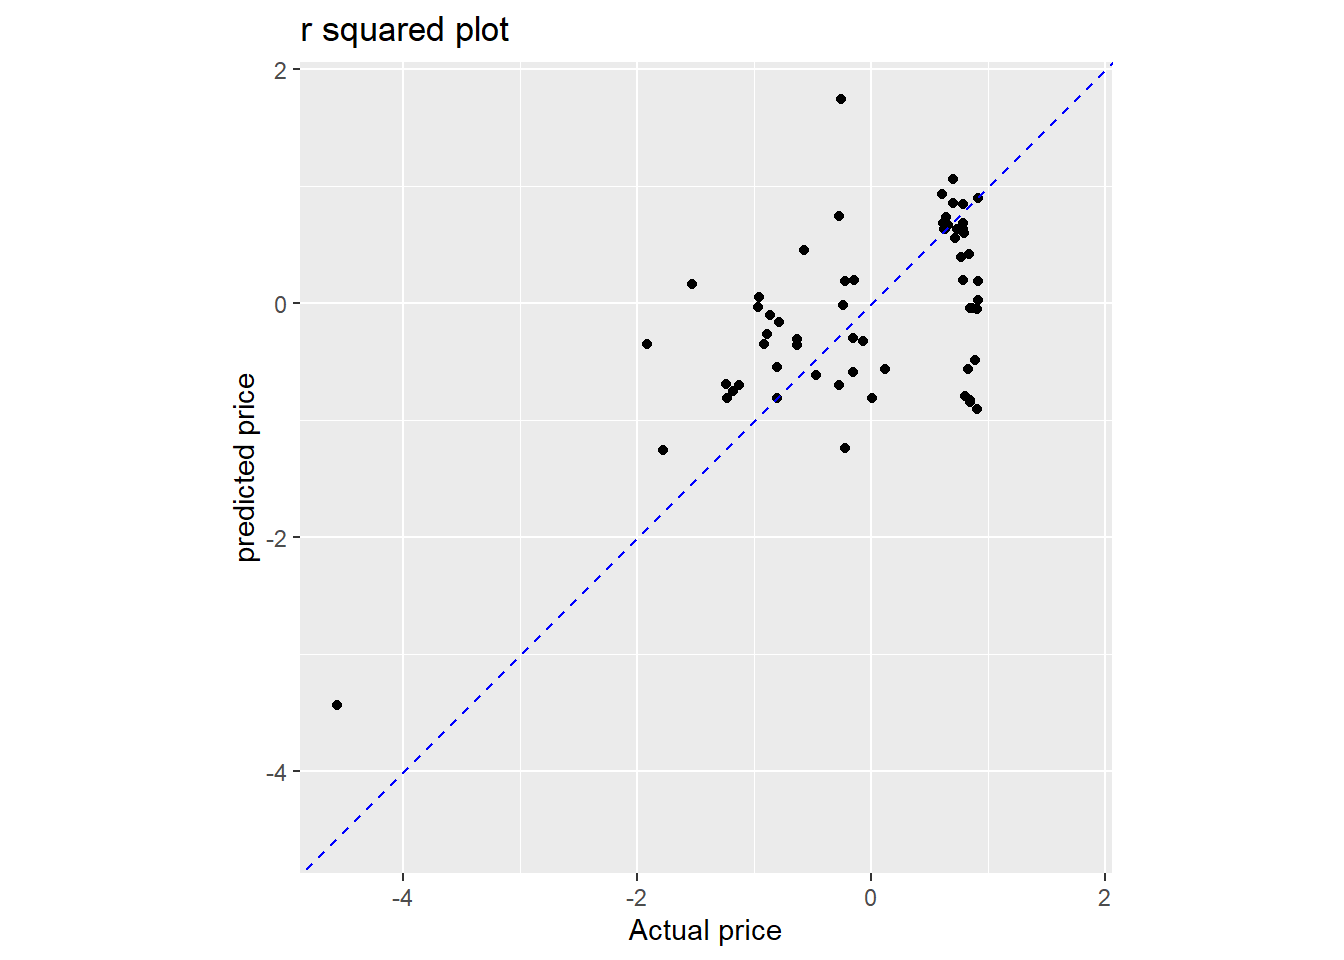
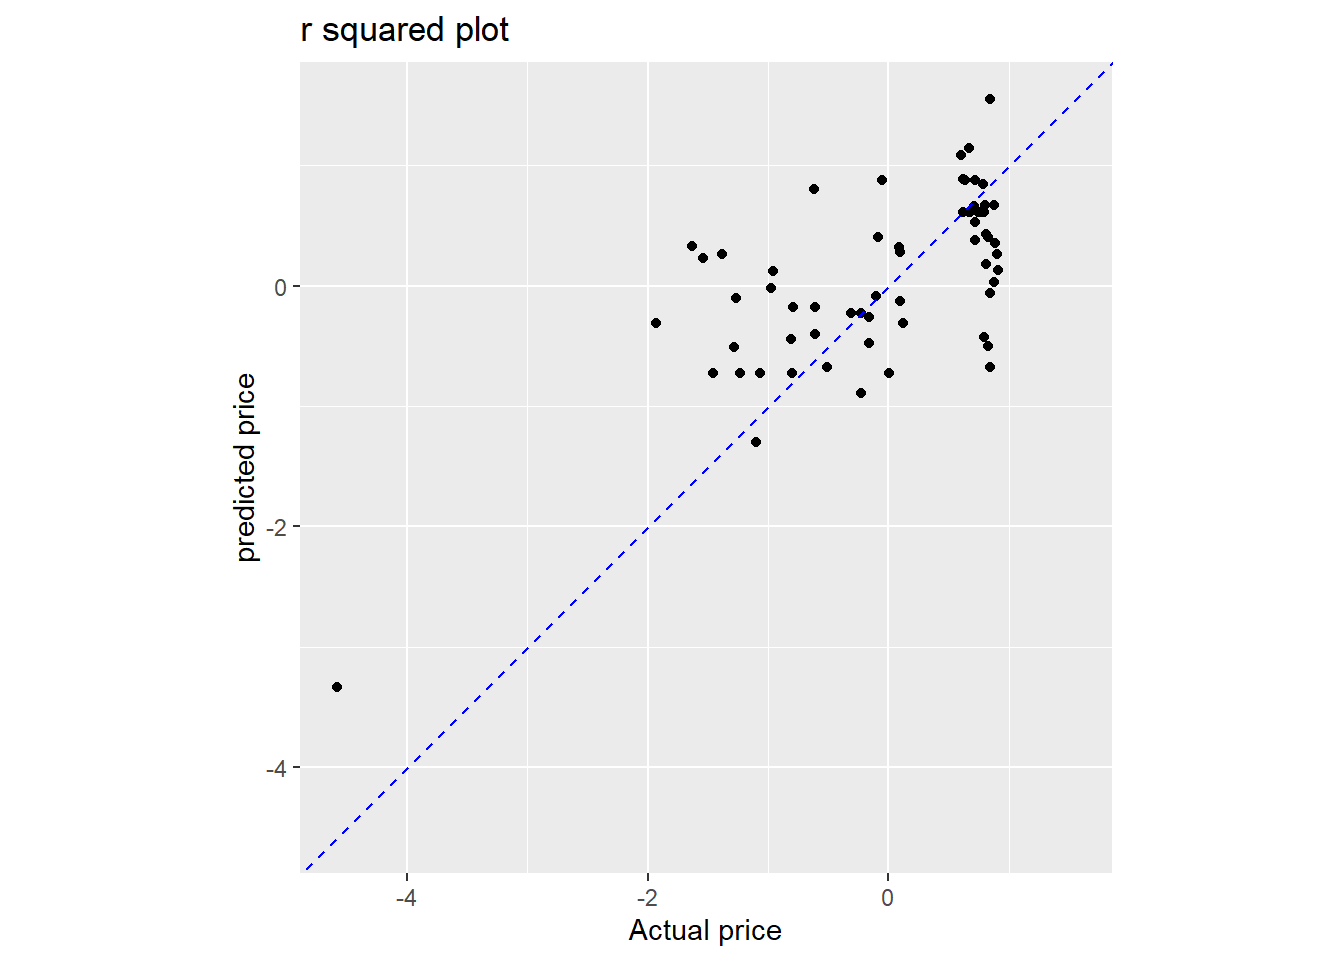
final model edited

diff --git a/content/post/2021-10-31-diamonds/index.html b/content/post/2021-10-31-diamonds/index.html
@@ -1136,7 +1136,7 @@ summary(lm_selectedmodel)</code></pre>
 ## Multiple R-squared:  0.5323, Adjusted R-squared:  0.5204 
 ## F-statistic: 44.95 on 6 and 237 DF,  p-value: &lt; 2.2e-16</code></pre>
 <p>The above is the best selected model to predict the price of the professor because the model is significant and it has good r squared of 0.532 and adjusted r squared of 0.52 and less standard error of 313.6 compared to other models.</p>
-<p>The best equation to predict price = 935.77+2317.67<em>Carat-459.69</em>ClarityVisible to naked eye +102.26<em>CutVery Good-464.58</em>WholesalerLow and Medium priced diamond wholesaler+119.31 <em>PolishVery Good - 261.97</em>Colouryellow</p>
+<p>The best equation to predict price = 935.77 + 2317.67 * Carat- 459.69 * ClarityVisible to naked eye + 102.26 * CutVery Good -464.58 * WholesalerLow and Medium priced diamond wholesaler + 119.31 * PolishVery Good - 261.97 * Colouryellow</p>
 </div>
 <div id="confidence-interval-of-price" class="section level1">
 <h1>Confidence interval of price</h1>
@@ -1144,7 +1144,7 @@ summary(lm_selectedmodel)</code></pre>
 <pre><code>##    upper     mean    lower 
 ## 2779.734 2722.627 2665.520</code></pre>
 <p>The confidenct interval of the price is between $2665.520 and $2779.73</p>
-<p>price = 935.77+2317.67<em>Carat-459.69</em>ClarityVisible to naked eye +102.26<em>CutVery Good-464.58</em>WholesalerLow and Medium priced diamond wholesaler+119.31 <em>PolishVery Good - 261.97</em>Colouryellow</p>
+<p>price = 935.77 + 2317.67 * Carat-459.69 * ClarityVisible to naked eye + 102.26 * CutVery Good-464.58 * WholesalerLow and Medium priced diamond wholesaler + 119.31 * PolishVery Good - 261.97 * Colouryellow</p>
 </div>
 <div id="calculation-of-professor-diamonds" class="section level1">
 <h1>Calculation of professor Diamonds</h1>
@@ -1231,16 +1231,16 @@ diamond_training_prep</code></pre>
 <pre><code>## # A tibble: 180 x 9
 ##     Carat Price Colour_yellow Clarity_Visible.t~ Cut_Very.Good Certification_Ot~
 ##     &lt;dbl&gt; &lt;dbl&gt;         &lt;dbl&gt;              &lt;dbl&gt;         &lt;dbl&gt;             &lt;dbl&gt;
-##  1 0.401  -1.84             1                  0             0                 1
-##  2 0.0885 -1.75             0                  1             0                 0
-##  3 0.276  -1.67             1                  1             0                 1
-##  4 0.339  -1.63             1                  1             0                 1
-##  5 1.46   -1.62             0                  1             0                 0
-##  6 0.151  -1.52             0                  1             1                 0
-##  7 0.0260 -1.50             0                  1             0                 0
-##  8 0.0260 -1.49             1                  1             1                 0
-##  9 0.339  -1.45             0                  1             1                 0
-## 10 0.0260 -1.44             0                  1             0                 1
+##  1 0.445  -1.85             1                  0             0                 1
+##  2 0.0498 -1.79             1                  1             0                 0
+##  3 0.116  -1.77             0                  1             0                 0
+##  4 0.313  -1.68             1                  1             0                 1
+##  5 0.379  -1.64             1                  1             0                 1
+##  6 0.182  -1.53             0                  1             1                 0
+##  7 0.0498 -1.51             0                  1             0                 0
+##  8 0.0498 -1.50             1                  1             1                 0
+##  9 0.379  -1.46             0                  1             1                 0
+## 10 0.182  -1.39             1                  1             0                 1
 ## # ... with 170 more rows, and 3 more variables: Polish_Very.Good &lt;dbl&gt;,
 ## #   Symmetry_Very.Good &lt;dbl&gt;,
 ## #   Wholesaler_Low.and.Medium.priced.diamond.wholesaler &lt;dbl&gt;</code></pre>
@@ -1254,16 +1254,16 @@ diamond_test_prep</code></pre>
 <pre><code>## # A tibble: 64 x 9
 ##     Carat Price Colour_yellow Clarity_Visible.t~ Cut_Very.Good Certification_Ot~
 ##     &lt;dbl&gt; &lt;dbl&gt;         &lt;dbl&gt;              &lt;dbl&gt;         &lt;dbl&gt;             &lt;dbl&gt;
-##  1 -0.474 0.611             0                  0             1                 0
-##  2 -1.16  0.620             0                  0             1                 0
-##  3 -1.22  0.629             0                  0             1                 0
-##  4 -1.22  0.638             0                  0             1                 0
-##  5 -1.10  0.644             0                  0             1                 0
-##  6 -0.536 0.662             1                  0             1                 0
-##  7 -0.724 0.704             0                  0             1                 0
-##  8 -0.599 0.706             0                  0             0                 0
-##  9 -0.911 0.724             0                  0             1                 0
-## 10 -1.22  0.741             0                  0             1                 0
+##  1 -0.477 0.606             0                  0             0                 0
+##  2 -0.807 0.621             0                  0             1                 0
+##  3 -1.27  0.623             0                  0             1                 0
+##  4 -0.939 0.637             0                  0             1                 0
+##  5 -0.609 0.668             0                  0             1                 0
+##  6 -1.27  0.674             0                  0             1                 0
+##  7 -1.27  0.683             0                  0             1                 0
+##  8 -1.20  0.714             0                  0             1                 0
+##  9 -0.939 0.719             0                  0             1                 0
+## 10 -1.20  0.719             0                  0             1                 0
 ## # ... with 54 more rows, and 3 more variables: Polish_Very.Good &lt;dbl&gt;,
 ## #   Symmetry_Very.Good &lt;dbl&gt;,
 ## #   Wholesaler_Low.and.Medium.priced.diamond.wholesaler &lt;dbl&gt;</code></pre>
@@ -1275,30 +1275,30 @@ diamond_test_prep</code></pre>
 lm_fit</code></pre>
 <pre><code>## parsnip model object
 ## 
-## Fit time:  0ms 
+## Fit time:  21ms 
 ## 
 ## Call:
 ## stats::lm(formula = Price ~ ., data = data)
 ## 
 ## Coefficients:
 ##                                         (Intercept)  
-##                                              1.1982  
+##                                             1.24262  
 ##                                               Carat  
-##                                              0.8626  
+##                                             0.80581  
 ##                                       Colour_yellow  
-##                                             -0.5525  
+##                                            -0.57396  
 ##                        Clarity_Visible.to.naked.eye  
-##                                             -1.0091  
+##                                            -0.98658  
 ##                                       Cut_Very.Good  
-##                                              0.1444  
+##                                             0.16093  
 ##                  Certification_Other.Certifications  
-##                                              0.2386  
+##                                             0.16368  
 ##                                    Polish_Very.Good  
-##                                              0.1670  
+##                                             0.09326  
 ##                                  Symmetry_Very.Good  
-##                                              0.1765  
+##                                             0.13490  
 ## Wholesaler_Low.and.Medium.priced.diamond.wholesaler  
-##                                             -1.2584</code></pre>
+##                                            -1.18694</code></pre>
 </div>
 <div id="obtaining-the-estimated-parameters" class="section level1">
 <h1>Obtaining the estimated parameters</h1>
@@ -1306,15 +1306,15 @@ lm_fit</code></pre>
 <pre><code>## # A tibble: 9 x 5
 ##   term                                     estimate std.error statistic  p.value
 ##   &lt;chr&gt;                                       &lt;dbl&gt;     &lt;dbl&gt;     &lt;dbl&gt;    &lt;dbl&gt;
-## 1 (Intercept)                                 1.20     0.151       7.92 2.97e-13
-## 2 Carat                                       0.863    0.0675     12.8  1.06e-26
-## 3 Colour_yellow                              -0.553    0.129      -4.29 2.97e- 5
-## 4 Clarity_Visible.to.naked.eye               -1.01     0.148      -6.83 1.43e-10
-## 5 Cut_Very.Good                               0.144    0.111       1.30 1.96e- 1
-## 6 Certification_Other.Certifications          0.239    0.130       1.83 6.86e- 2
-## 7 Polish_Very.Good                            0.167    0.118       1.42 1.57e- 1
-## 8 Symmetry_Very.Good                          0.176    0.121       1.46 1.45e- 1
-## 9 Wholesaler_Low.and.Medium.priced.diamon~   -1.26     0.195      -6.45 1.09e- 9</code></pre>
+## 1 (Intercept)                                1.24      0.158      7.86  4.18e-13
+## 2 Carat                                      0.806     0.0693    11.6   2.03e-23
+## 3 Colour_yellow                             -0.574     0.133     -4.31  2.72e- 5
+## 4 Clarity_Visible.to.naked.eye              -0.987     0.155     -6.36  1.74e- 9
+## 5 Cut_Very.Good                              0.161     0.115      1.40  1.63e- 1
+## 6 Certification_Other.Certifications         0.164     0.138      1.19  2.37e- 1
+## 7 Polish_Very.Good                           0.0933    0.121      0.768 4.44e- 1
+## 8 Symmetry_Very.Good                         0.135     0.122      1.10  2.72e- 1
+## 9 Wholesaler_Low.and.Medium.priced.diamon~  -1.19      0.204     -5.81  3.04e- 8</code></pre>
 </div>
 <div id="making-predictions" class="section level1">
 <h1>Making predictions</h1>
@@ -1324,16 +1324,16 @@ diamond_predictions</code></pre>
 <pre><code>## # A tibble: 64 x 1
 ##    .pred
 ##    &lt;dbl&gt;
-##  1 0.934
-##  2 0.684
-##  3 0.630
-##  4 0.630
-##  5 0.738
-##  6 0.671
-##  7 1.06 
-##  8 0.858
-##  9 0.556
-## 10 0.630
+##  1 1.09 
+##  2 0.888
+##  3 0.610
+##  4 0.875
+##  5 1.14 
+##  6 0.610
+##  7 0.610
+##  8 0.663
+##  9 0.875
+## 10 0.528
 ## # ... with 54 more rows</code></pre>
 </div>
 <div id="adding-predictions-to-test-data" class="section level1">
@@ -1344,16 +1344,16 @@ diamond_test_prep_results</code></pre>
 <pre><code>## # A tibble: 64 x 10
 ##     Carat Price Colour_yellow Clarity_Visible.t~ Cut_Very.Good Certification_Ot~
 ##     &lt;dbl&gt; &lt;dbl&gt;         &lt;dbl&gt;              &lt;dbl&gt;         &lt;dbl&gt;             &lt;dbl&gt;
-##  1 -0.474 0.611             0                  0             1                 0
-##  2 -1.16  0.620             0                  0             1                 0
-##  3 -1.22  0.629             0                  0             1                 0
-##  4 -1.22  0.638             0                  0             1                 0
-##  5 -1.10  0.644             0                  0             1                 0
-##  6 -0.536 0.662             1                  0             1                 0
-##  7 -0.724 0.704             0                  0             1                 0
-##  8 -0.599 0.706             0                  0             0                 0
-##  9 -0.911 0.724             0                  0             1                 0
-## 10 -1.22  0.741             0                  0             1                 0
+##  1 -0.477 0.606             0                  0             0                 0
+##  2 -0.807 0.621             0                  0             1                 0
+##  3 -1.27  0.623             0                  0             1                 0
+##  4 -0.939 0.637             0                  0             1                 0
+##  5 -0.609 0.668             0                  0             1                 0
+##  6 -1.27  0.674             0                  0             1                 0
+##  7 -1.27  0.683             0                  0             1                 0
+##  8 -1.20  0.714             0                  0             1                 0
+##  9 -0.939 0.719             0                  0             1                 0
+## 10 -1.20  0.719             0                  0             1                 0
 ## # ... with 54 more rows, and 4 more variables: Polish_Very.Good &lt;dbl&gt;,
 ## #   Symmetry_Very.Good &lt;dbl&gt;,
 ## #   Wholesaler_Low.and.Medium.priced.diamond.wholesaler &lt;dbl&gt;, .pred &lt;dbl&gt;</code></pre>
@@ -1368,7 +1368,7 @@ diamond_test_prep_results</code></pre>
 <pre><code>## # A tibble: 1 x 3
 ##   .metric .estimator .estimate
 ##   &lt;chr&gt;   &lt;chr&gt;          &lt;dbl&gt;
-## 1 rmse    standard       0.809</code></pre>
+## 1 rmse    standard       0.743</code></pre>
 </div>
 <div id="r-squared-metric" class="section level1">
 <h1>r squared metric</h1>
@@ -1377,7 +1377,7 @@ diamond_test_prep_results</code></pre>
 <pre><code>## # A tibble: 1 x 3
 ##   .metric .estimator .estimate
 ##   &lt;chr&gt;   &lt;chr&gt;          &lt;dbl&gt;
-## 1 rsq     standard       0.371</code></pre>
+## 1 rsq     standard       0.470</code></pre>
 </div>
 <div id="r-squared-plots" class="section level1">
 <h1>r squared plots</h1>
@@ -1394,8 +1394,8 @@ diamond_test_prep_results</code></pre>
 <pre><code>## # A tibble: 2 x 4
 ##   .metric .estimator .estimate .config             
 ##   &lt;chr&gt;   &lt;chr&gt;          &lt;dbl&gt; &lt;chr&gt;               
-## 1 rmse    standard     367.    Preprocessor1_Model1
-## 2 rsq     standard       0.371 Preprocessor1_Model1</code></pre>
+## 1 rmse    standard     336.    Preprocessor1_Model1
+## 2 rsq     standard       0.470 Preprocessor1_Model1</code></pre>
 </div>
 <div id="collecting-predictions" class="section level1">
 <h1>COllecting predictions</h1>
@@ -1404,16 +1404,16 @@ diamond_test_prep_results</code></pre>
 <pre><code>## # A tibble: 64 x 5
 ##    id               .pred  .row Price .config             
 ##    &lt;chr&gt;            &lt;dbl&gt; &lt;int&gt; &lt;dbl&gt; &lt;chr&gt;               
-##  1 train/test split 3146.     2  3000 Preprocessor1_Model1
-##  2 train/test split 3033.     4  3004 Preprocessor1_Model1
-##  3 train/test split 3009.     7  3008 Preprocessor1_Model1
-##  4 train/test split 3009.    10  3012 Preprocessor1_Model1
-##  5 train/test split 3057.    14  3015 Preprocessor1_Model1
-##  6 train/test split 3027.    16  3023 Preprocessor1_Model1
-##  7 train/test split 3204.    29  3042 Preprocessor1_Model1
-##  8 train/test split 3112.    32  3043 Preprocessor1_Model1
-##  9 train/test split 2975.    37  3051 Preprocessor1_Model1
-## 10 train/test split 3009.    43  3059 Preprocessor1_Model1
+##  1 train/test split 3217.     1  3000 Preprocessor1_Model1
+##  2 train/test split 3128.     6  3007 Preprocessor1_Model1
+##  3 train/test split 3002.     7  3008 Preprocessor1_Model1
+##  4 train/test split 3122.    11  3014 Preprocessor1_Model1
+##  5 train/test split 3242.    18  3028 Preprocessor1_Model1
+##  6 train/test split 3002.    23  3031 Preprocessor1_Model1
+##  7 train/test split 3002.    24  3035 Preprocessor1_Model1
+##  8 train/test split 3026.    35  3049 Preprocessor1_Model1
+##  9 train/test split 3122.    36  3051 Preprocessor1_Model1
+## 10 train/test split 2965.    38  3051 Preprocessor1_Model1
 ## # ... with 54 more rows</code></pre>
 </div>
 <div id="creating-workflow" class="section level1">
@@ -1458,8 +1458,8 @@ diamond_wkfl_fit</code></pre>
 <pre><code>## # A tibble: 2 x 4
 ##   .metric .estimator .estimate .config             
 ##   &lt;chr&gt;   &lt;chr&gt;          &lt;dbl&gt; &lt;chr&gt;               
-## 1 rmse    standard       0.809 Preprocessor1_Model1
-## 2 rsq     standard       0.371 Preprocessor1_Model1</code></pre>
+## 1 rmse    standard       0.743 Preprocessor1_Model1
+## 2 rsq     standard       0.470 Preprocessor1_Model1</code></pre>
 </div>
 <div id="collecting-predictions-1" class="section level1">
 <h1>Collecting predictions</h1>
@@ -1469,16 +1469,16 @@ diamond_wkfl_preds</code></pre>
 <pre><code>## # A tibble: 64 x 5
 ##    id               .pred  .row Price .config             
 ##    &lt;chr&gt;            &lt;dbl&gt; &lt;int&gt; &lt;dbl&gt; &lt;chr&gt;               
-##  1 train/test split 0.934     2 0.611 Preprocessor1_Model1
-##  2 train/test split 0.684     4 0.620 Preprocessor1_Model1
-##  3 train/test split 0.630     7 0.629 Preprocessor1_Model1
-##  4 train/test split 0.630    10 0.638 Preprocessor1_Model1
-##  5 train/test split 0.738    14 0.644 Preprocessor1_Model1
-##  6 train/test split 0.671    16 0.662 Preprocessor1_Model1
-##  7 train/test split 1.06     29 0.704 Preprocessor1_Model1
-##  8 train/test split 0.858    32 0.706 Preprocessor1_Model1
-##  9 train/test split 0.556    37 0.724 Preprocessor1_Model1
-## 10 train/test split 0.630    43 0.741 Preprocessor1_Model1
+##  1 train/test split 1.09      1 0.606 Preprocessor1_Model1
+##  2 train/test split 0.888     6 0.621 Preprocessor1_Model1
+##  3 train/test split 0.610     7 0.623 Preprocessor1_Model1
+##  4 train/test split 0.875    11 0.637 Preprocessor1_Model1
+##  5 train/test split 1.14     18 0.668 Preprocessor1_Model1
+##  6 train/test split 0.610    23 0.674 Preprocessor1_Model1
+##  7 train/test split 0.610    24 0.683 Preprocessor1_Model1
+##  8 train/test split 0.663    35 0.714 Preprocessor1_Model1
+##  9 train/test split 0.875    36 0.719 Preprocessor1_Model1
+## 10 train/test split 0.528    38 0.719 Preprocessor1_Model1
 ## # ... with 54 more rows</code></pre>
 </div>
 <div id="exploring-custom-metrics" class="section level1">
@@ -1489,9 +1489,9 @@ diamond_wkfl_preds %&gt;%
 <pre><code>## # A tibble: 3 x 3
 ##   .metric .estimator .estimate
 ##   &lt;chr&gt;   &lt;chr&gt;          &lt;dbl&gt;
-## 1 rmse    standard       0.809
-## 2 mae     standard       0.621
-## 3 rsq     standard       0.371</code></pre>
+## 1 rmse    standard       0.743
+## 2 mae     standard       0.558
+## 3 rsq     standard       0.470</code></pre>
 </div>
 <div id="creating-cross-validation-folds" class="section level1">
 <h1>Creating cross validation folds</h1>
@@ -1523,9 +1523,9 @@ diamond_rs_fit %&gt;%
 <pre><code>## # A tibble: 3 x 6
 ##   .metric .estimator  mean     n std_err .config             
 ##   &lt;chr&gt;   &lt;chr&gt;      &lt;dbl&gt; &lt;int&gt;   &lt;dbl&gt; &lt;chr&gt;               
-## 1 mae     standard   0.506    10  0.0201 Preprocessor1_Model1
-## 2 rmse    standard   0.681    10  0.0319 Preprocessor1_Model1
-## 3 rsq     standard   0.480    10  0.0756 Preprocessor1_Model1</code></pre>
+## 1 mae     standard   0.534    10  0.0355 Preprocessor1_Model1
+## 2 rmse    standard   0.694    10  0.0532 Preprocessor1_Model1
+## 3 rsq     standard   0.487    10  0.0720 Preprocessor1_Model1</code></pre>
 <p>Models are trained with cross validation and its metrics are given.</p>
 </div>
 <div id="detailed-cross-validation-results" class="section level1">
@@ -1536,16 +1536,16 @@ diamond_rs_metrics</code></pre>
 <pre><code>## # A tibble: 30 x 5
 ##    id     .metric .estimator .estimate .config             
 ##    &lt;chr&gt;  &lt;chr&gt;   &lt;chr&gt;          &lt;dbl&gt; &lt;chr&gt;               
-##  1 Fold01 rmse    standard       0.780 Preprocessor1_Model1
-##  2 Fold01 mae     standard       0.530 Preprocessor1_Model1
-##  3 Fold01 rsq     standard       0.693 Preprocessor1_Model1
-##  4 Fold02 rmse    standard       0.626 Preprocessor1_Model1
-##  5 Fold02 mae     standard       0.492 Preprocessor1_Model1
-##  6 Fold02 rsq     standard       0.238 Preprocessor1_Model1
-##  7 Fold03 rmse    standard       0.596 Preprocessor1_Model1
-##  8 Fold03 mae     standard       0.398 Preprocessor1_Model1
-##  9 Fold03 rsq     standard       0.492 Preprocessor1_Model1
-## 10 Fold04 rmse    standard       0.594 Preprocessor1_Model1
+##  1 Fold01 rmse    standard       0.678 Preprocessor1_Model1
+##  2 Fold01 mae     standard       0.489 Preprocessor1_Model1
+##  3 Fold01 rsq     standard       0.819 Preprocessor1_Model1
+##  4 Fold02 rmse    standard       0.481 Preprocessor1_Model1
+##  5 Fold02 mae     standard       0.443 Preprocessor1_Model1
+##  6 Fold02 rsq     standard       0.521 Preprocessor1_Model1
+##  7 Fold03 rmse    standard       0.730 Preprocessor1_Model1
+##  8 Fold03 mae     standard       0.563 Preprocessor1_Model1
+##  9 Fold03 rsq     standard       0.257 Preprocessor1_Model1
+## 10 Fold04 rmse    standard       0.827 Preprocessor1_Model1
 ## # ... with 20 more rows</code></pre>
 <p>The details cross validation results are given above</p>
 </div>
@@ -1559,8 +1559,8 @@ diamond_rs_metrics</code></pre>
             max = max(.estimate),
             mean = mean(.estimate),
             sd = sd(.estimate))</code></pre>
-<pre><code>##         min    median       max      mean        sd
-## 1 0.5498217 0.6618715 0.8220558 0.6809602 0.1009607</code></pre>
+<pre><code>##         min    median      max      mean       sd
+## 1 0.4808174 0.6805802 1.004403 0.6936171 0.168203</code></pre>
 </div>
 <div id="viewing-the-best-performing-model" class="section level1">
 <h1>Viewing the best performing model</h1>
@@ -1569,7 +1569,7 @@ diamond_rs_metrics</code></pre>
 <pre><code>## # A tibble: 1 x 6
 ##   .metric .estimator  mean     n std_err .config             
 ##   &lt;chr&gt;   &lt;chr&gt;      &lt;dbl&gt; &lt;int&gt;   &lt;dbl&gt; &lt;chr&gt;               
-## 1 rmse    standard   0.681    10  0.0319 Preprocessor1_Model1</code></pre>
+## 1 rmse    standard   0.694    10  0.0532 Preprocessor1_Model1</code></pre>
 </div>
 <div id="best-diamond-model" class="section level1">
 <h1>Best diamond model</h1>
@@ -1611,8 +1611,8 @@ diamond_final_fit %&gt;%
 <pre><code>## # A tibble: 2 x 4
 ##   .metric .estimator .estimate .config             
 ##   &lt;chr&gt;   &lt;chr&gt;          &lt;dbl&gt; &lt;chr&gt;               
-## 1 rmse    standard       0.809 Preprocessor1_Model1
-## 2 rsq     standard       0.371 Preprocessor1_Model1</code></pre>
+## 1 rmse    standard       0.743 Preprocessor1_Model1
+## 2 rsq     standard       0.470 Preprocessor1_Model1</code></pre>
 </div>
 <div id="bootstrap-method" class="section level1">
 <h1>Bootstrap method</h1>
